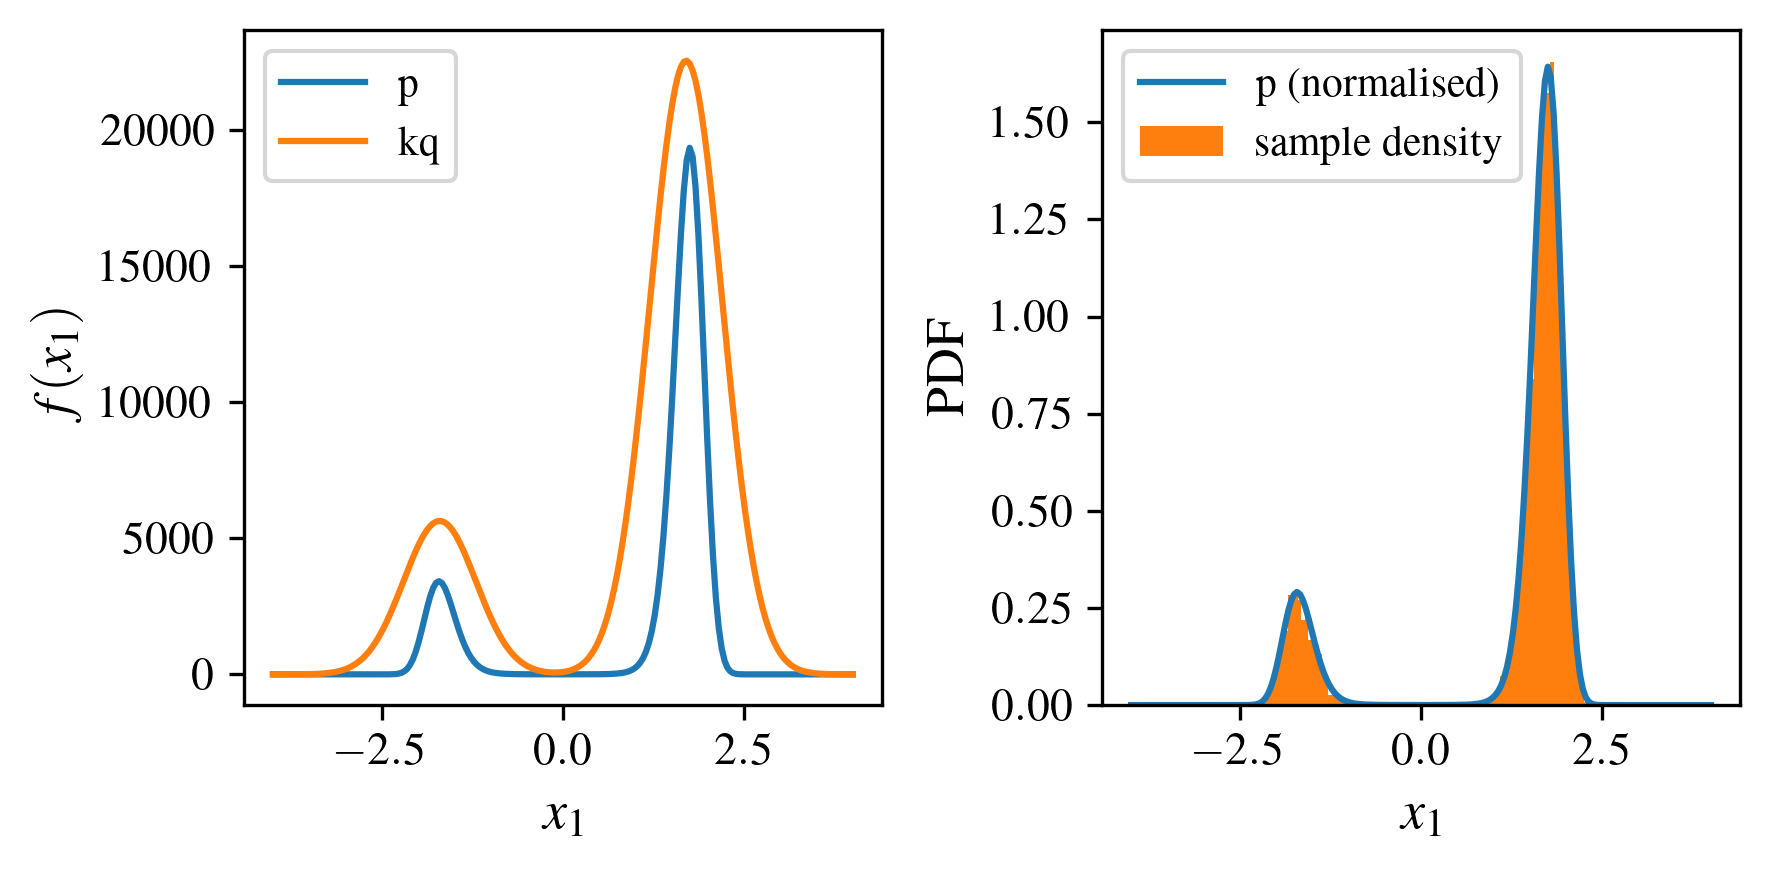
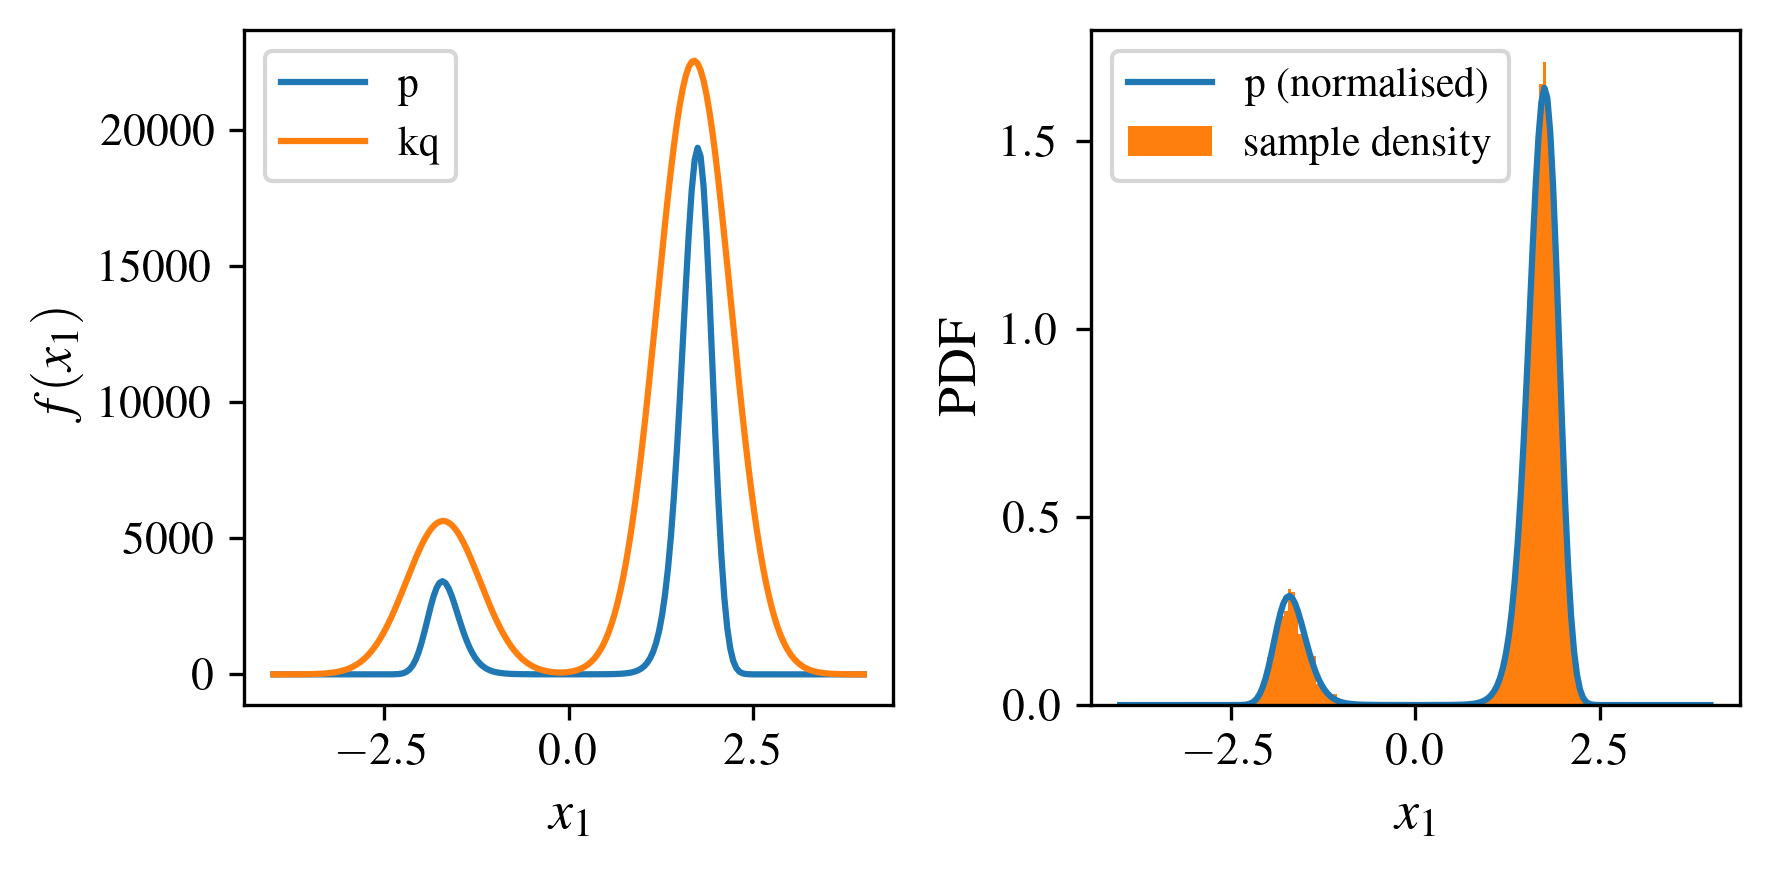
feat: small changes finilising things

diff --git a/experiments/many_well/results_vis_appendix.py b/experiments/many_well/results_vis_appendix.py
@@ -26,8 +26,16 @@ def run(cfg: DictConfig):
     rc('ytick', labelsize=11)
 
     torch.set_default_dtype(torch.float64)
-    model_names = ["target_kld", "flow_nis", "flow_kld", "snf_hmc", "fab_no_buffer", "fab_buffer"]
-    titles = ["Flow w/ ML", r"Flow w/ $D_{\alpha=2}$", "Flow w/ KLD", "SNF w/ KLD",
+    model_names = ["target_kld",
+                   "flow_nis",
+                   "flow_kld",
+                   "snf_hmc",
+                   "fab_no_buffer",
+                   "fab_buffer"]
+    titles = ["Flow w/ ML",
+              r"Flow w/ $D_{\alpha=2}$",
+              "Flow w/ KLD",
+              "SNF w/ KLD",
               "FAB w/o buffer (ours)",
               "FAB w/ buffer (ours)"]
 
@@ -49,7 +57,21 @@ def run(cfg: DictConfig):
         path_to_model = f"{PATH}/models/{model_name}_seed{seed}.pt" if model_name else None
         plot_manywell_results(cfg, subfigs[i], path_to_model=path_to_model, plot_y_label=True)
         ax.suptitle(title)
+    fig.savefig(f"{PATH}/plots/many_well_appendix.png", bbox_inches="tight")
     plt.show()
+
+    fig = plt.figure(constrained_layout=True, figsize=(5, 5))
+    subfig = fig.subfigures(1, wspace=0.01)
+    model_name = "rbd"
+    title = "RBD w/ KLD"
+    cfg.flow.resampled_base = True
+    path_to_model = f"{PATH}/models/{model_name}_seed{seed}.pt" if model_name else None
+    plot_manywell_results(cfg, subfig, path_to_model=path_to_model, plot_y_label=True)
+    subfig.suptitle(title)
+    plt.savefig(f"{PATH}/plots/many_well_appendix_rbd.png", bbox_inches="tight")
+    plt.show()
+
+
 
 
 if __name__ == '__main__':

diff --git a/experiments/make_flow/make_normflow_model.py b/experiments/make_flow/make_normflow_model.py
@@ -130,14 +130,19 @@ def make_wrapped_normflow_resampled_flow(
         n_flow_layers: int = 5,
         layer_nodes_per_dim: int = 10,
         act_norm: bool = True,
-        a_hidden_layer: int = 3,
+        a_hidden_layer: int = 2,
         a_hidden_units: int = 256,
         T: int = 100,
-        eps: float = 0.05) \
+        eps: float = 0.05,
+        resenet: bool = True) \
         -> TrainableDistribution:
     """Created normflows distribution with resampled base."""
-    hu = [dim] + [a_hidden_units] * a_hidden_layer + [1]
-    a = nf.nets.MLP(hu, output_fn="sigmoid")
+    if resenet:
+        resnet = nf.nets.ResidualNet(dim, 1, a_hidden_units, num_blocks=a_hidden_layer)
+        a = torch.nn.Sequential(resnet, torch.nn.Sigmoid())
+    else:
+        hu = [dim] + [a_hidden_units] * a_hidden_layer + [1]
+        a = nf.nets.MLP(hu, output_fn="sigmoid")
     base = lf.distributions.ResampledGaussian(dim, a, T, eps, trainable=False)
     flows = make_normflow_flow(dim,
                                n_flow_layers=n_flow_layers,
@@ -148,5 +153,3 @@ def make_wrapped_normflow_resampled_flow(
         model.sample(500)  # ensure we call sample to initialise the ActNorm layers
     wrapped_dist = WrappedNormFlowModel(model)
     return wrapped_dist
-
-

diff --git a/experiments/gmm/results_vis.py b/experiments/gmm/results_vis.py
@@ -16,7 +16,7 @@ from experiments.setup_run import setup_model
 
 
 PATH = os.getcwd()
-N_SAMPLES_PLOTTING = 800
+N_SAMPLES_PLOTTING = 1000
 
 def plot_result(cfg: DictConfig, ax: plt.axes, path_to_model: Optional[str] = None):
     n_samples: int = N_SAMPLES_PLOTTING
@@ -117,6 +117,7 @@ def run(cfg: DictConfig):
             plot_marginal_pair(samples_craft, ax=ax, bounds=plotting_bounds, alpha=0.3)
 
         ax.set_title(title)
+        ax.axis('off')
 
     plt.tight_layout()
     if no_init:
